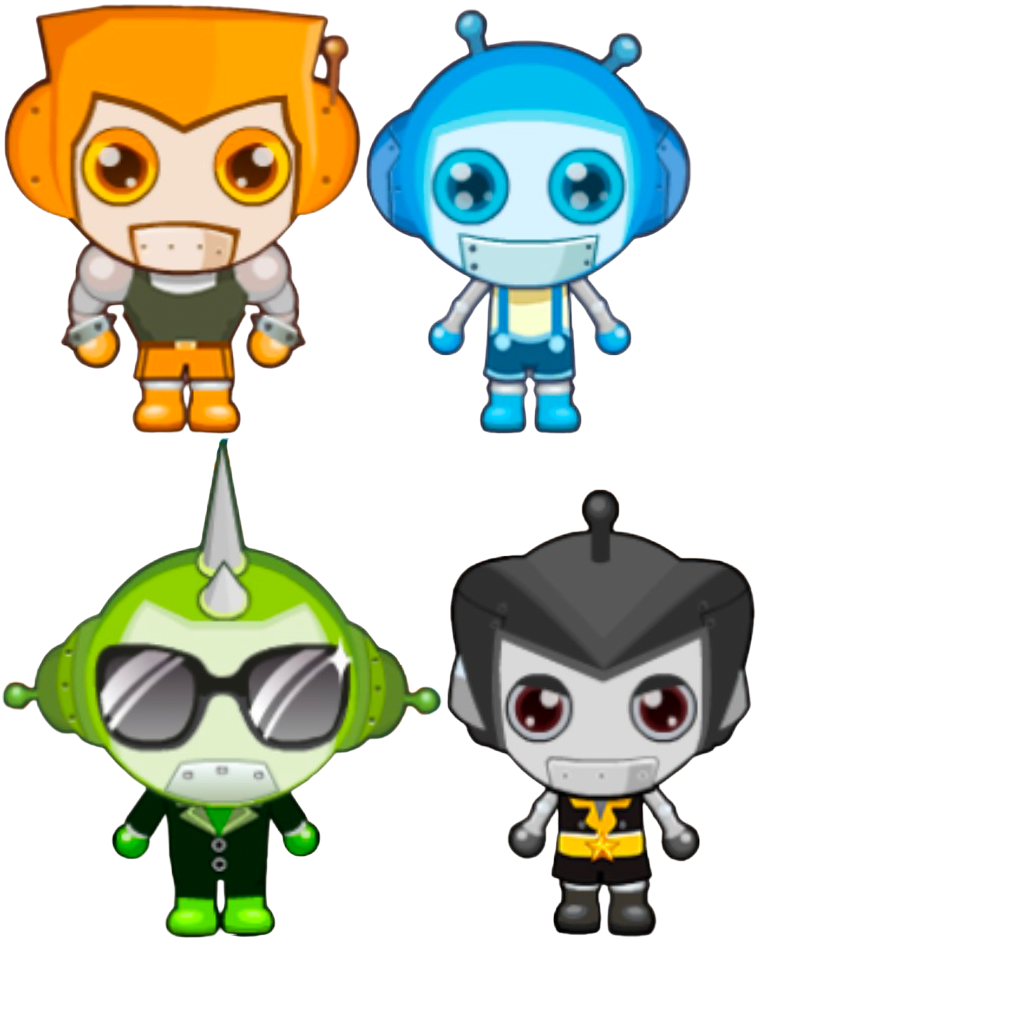
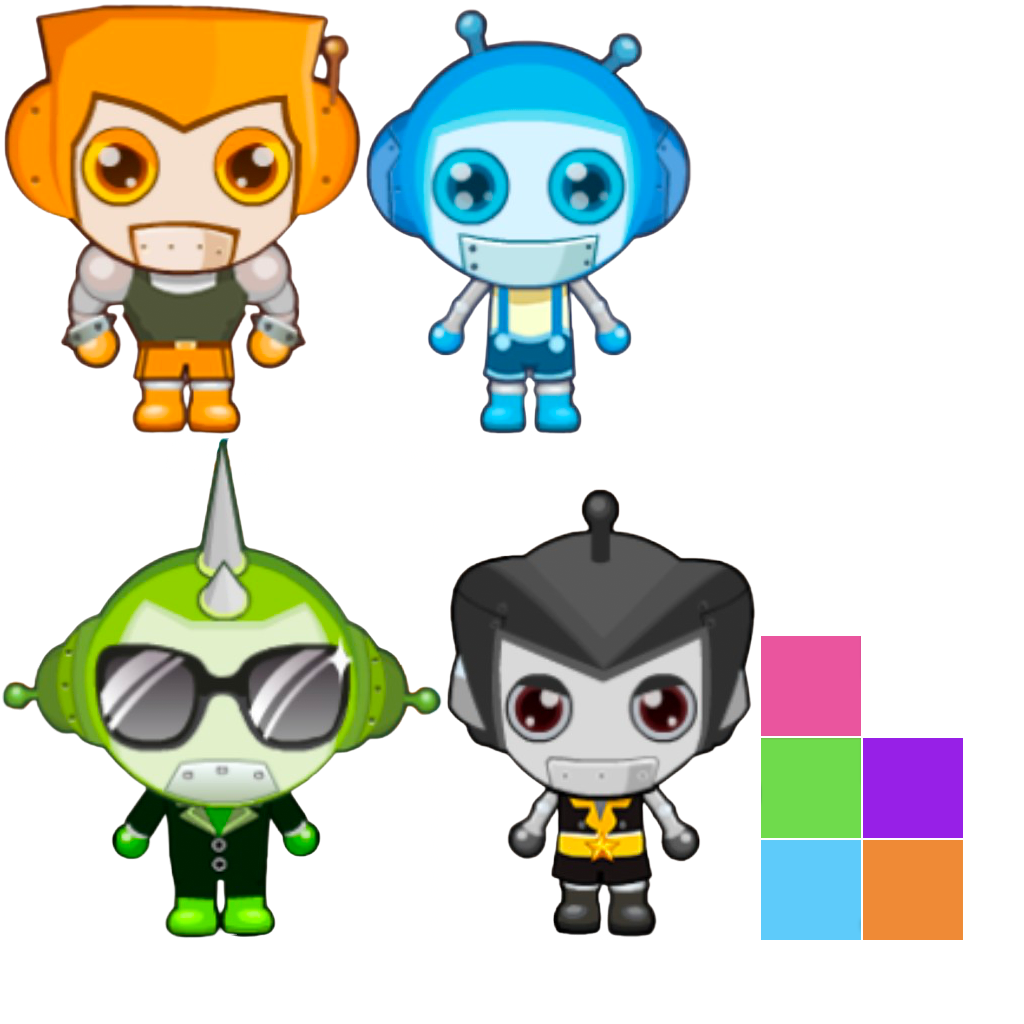
feat: add images for TileTag mode, no impl yet

Changed region(s): [[0.7188, 0.5938, 0.9375, 0.9375]]

diff --git a/core/src/com/amadejpapez/bombit/assets/Assets.java b/core/src/com/amadejpapez/bombit/assets/Assets.java
@@ -40,6 +40,12 @@ public class Assets {
     public static TextureRegion playerPurple;
     public static TextureRegion pomPink;
     public static TextureRegion pomYellow;
+    public static TextureRegion tileBlack;
+    public static TextureRegion tileBlue;
+    public static TextureRegion tileGreen;
+    public static TextureRegion tileOrange;
+    public static TextureRegion tilePink;
+    public static TextureRegion tilePurple;
     public static TextureRegion title;
     public static TextureRegion whistle;
     public static TextureRegion youLose;
@@ -85,6 +91,12 @@ public class Assets {
         playerPurple = gameplayAtlas.findRegion(AssetRegionNames.PLAYER_PURPLE);
         pomPink = gameplayAtlas.findRegion(AssetRegionNames.POM_PINK);
         pomYellow = gameplayAtlas.findRegion(AssetRegionNames.POM_YELLOW);
+        tileBlack = gameplayAtlas.findRegion(AssetRegionNames.TILE_BLACK);
+        tileBlue = gameplayAtlas.findRegion(AssetRegionNames.TILE_BLUE);
+        tileGreen = gameplayAtlas.findRegion(AssetRegionNames.TILE_GREEN);
+        tileOrange = gameplayAtlas.findRegion(AssetRegionNames.TILE_ORANGE);
+        tilePink = gameplayAtlas.findRegion(AssetRegionNames.TILE_PINK);
+        tilePurple = gameplayAtlas.findRegion(AssetRegionNames.TILE_PURPLE);
         title = gameplayAtlas.findRegion(AssetRegionNames.TITLE);
         whistle = gameplayAtlas.findRegion(AssetRegionNames.WHISTLE);
         youLose = gameplayAtlas.findRegion(AssetRegionNames.YOU_LOSE);

diff --git a/core/src/com/amadejpapez/bombit/CellActor.java b/core/src/com/amadejpapez/bombit/CellActor.java
@@ -93,6 +93,18 @@ public class CellActor extends Image {
                 return Assets.pomPink;
             case POM_YELLOW:
                 return Assets.pomYellow;
+            case TILE_BLACK:
+                return Assets.tileBlack;
+            case TILE_BLUE:
+                return Assets.tileBlue;
+            case TILE_GREEN:
+                return Assets.tileGreen;
+            case TILE_ORANGE:
+                return Assets.tileOrange;
+            case TILE_PINK:
+                return Assets.tilePink;
+            case TILE_PURPLE:
+                return Assets.tilePurple;
             case WHISTLE:
                 return Assets.whistle;
             default:

diff --git a/core/src/com/amadejpapez/bombit/assets/AssetRegionNames.java b/core/src/com/amadejpapez/bombit/assets/AssetRegionNames.java
@@ -32,5 +32,12 @@ public class AssetRegionNames {
     public static final String BONUS_BOMB = "bonus_bomb";
     public static final String BONUS_HAND = "bonus_hand";
 
+    public static final String TILE_BLACK = "tile_black";
+    public static final String TILE_BLUE = "tile_blue";
+    public static final String TILE_GREEN = "tile_green";
+    public static final String TILE_ORANGE = "tile_orange";
+    public static final String TILE_PINK = "tile_pink";
+    public static final String TILE_PURPLE = "tile_purple";
+
     private AssetRegionNames() { }
 }

diff --git a/core/src/com/amadejpapez/bombit/CellState.java b/core/src/com/amadejpapez/bombit/CellState.java
@@ -15,5 +15,11 @@ public enum CellState {
     PLAYER_PINK,
     POM_PINK,
     POM_YELLOW,
+    TILE_BLACK,
+    TILE_BLUE,
+    TILE_GREEN,
+    TILE_ORANGE,
+    TILE_PINK,
+    TILE_PURPLE,
     WHISTLE,
 }
